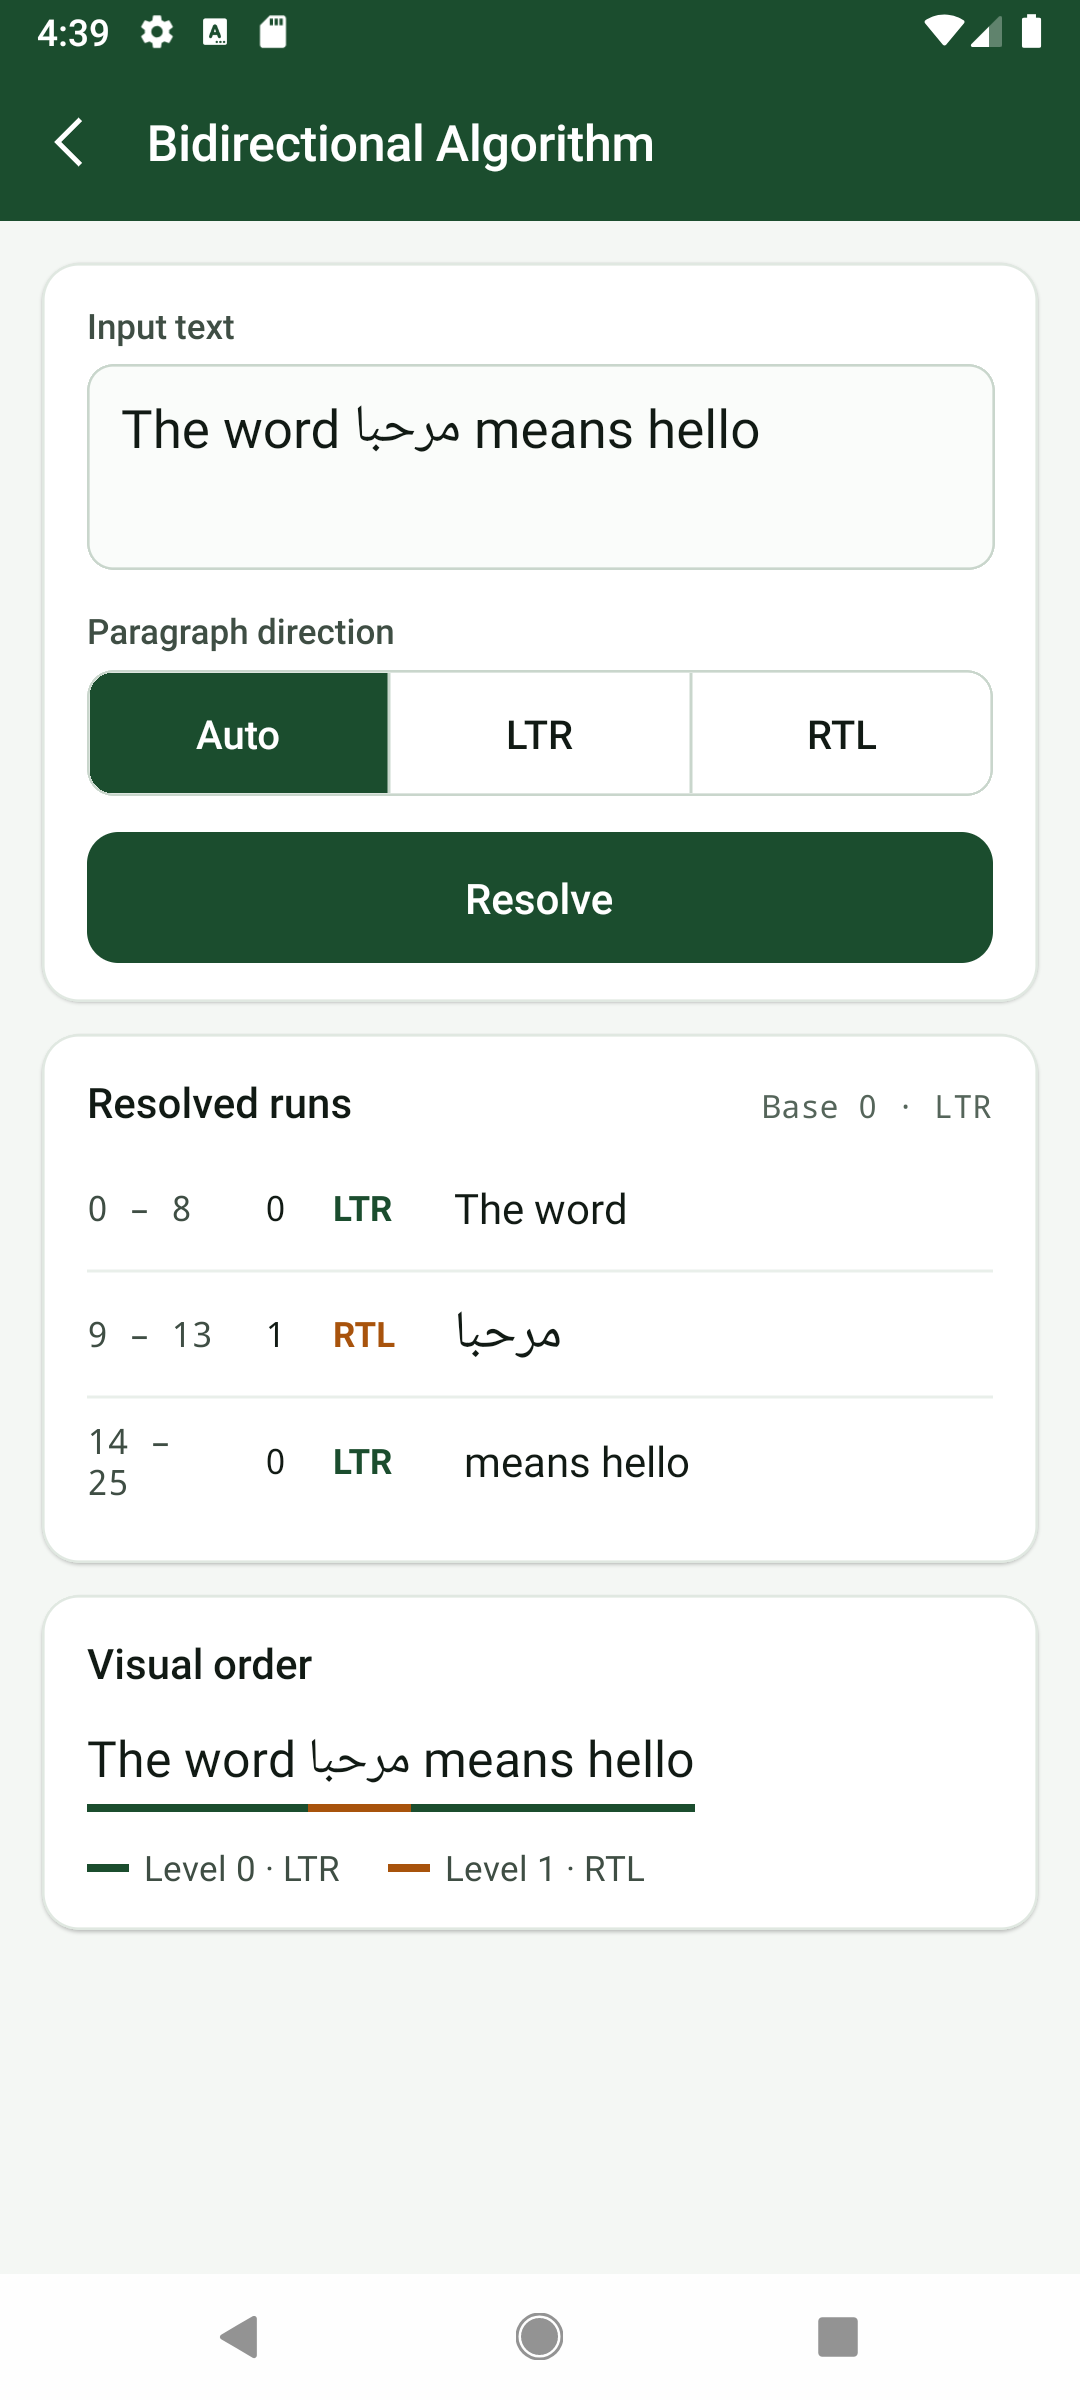
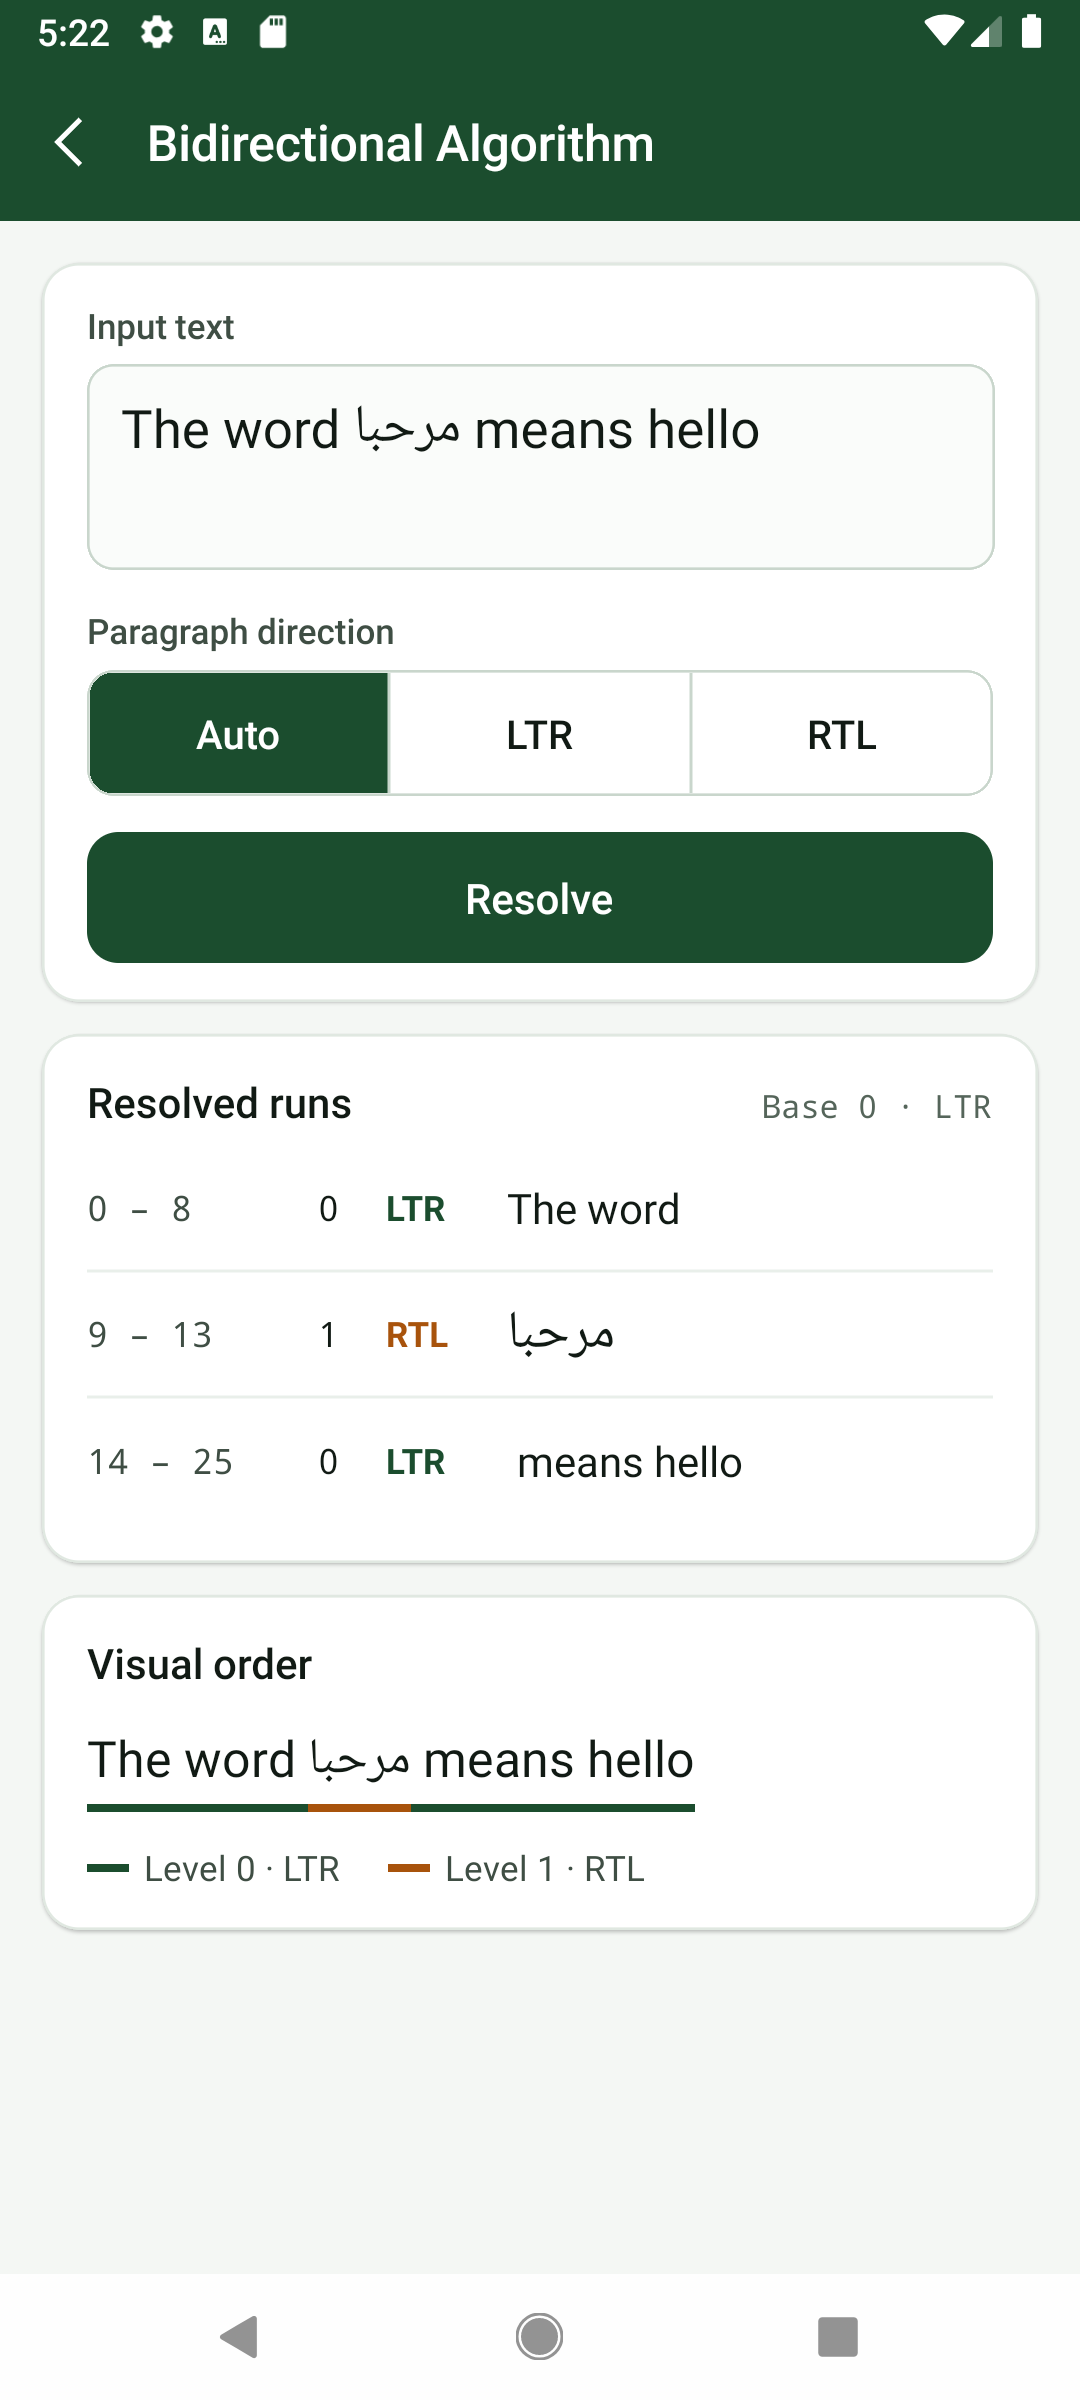
[test][docs] Fix the QA findings of #60: sheet inset, glyph grid loading state, Bidi range column, input spell-check, glyph ID validation, README emulator (#30)

diff --git a/demo/src/screens/GlyphsScreen.tsx b/demo/src/screens/GlyphsScreen.tsx
@@ -125,7 +125,15 @@ export function GlyphsScreen({ onBack }: { onBack: () => void }) {
   const [characters, setCharacters] = useState<Map<number, number>>();
   const [goTo, setGoTo] = useState('0000');
   const [gridWidth, setGridWidth] = useState(0);
+  const [problem, setProblem] = useState<string | undefined>();
+  // Drawing the cells blocks the JS thread for seconds on slow devices. The grid is mounted a tick
+  // after the spinner, and a jump scrolls a tick after it, so the spinner is on the screen first.
+  const [gridMounted, setGridMounted] = useState(false);
+  const [drawing, setDrawing] = useState(true);
   const list = useRef<FlatList<number>>(null);
+  const visible = useRef<readonly number[]>([]);
+  const awaited = useRef<number | undefined>(undefined);
+  const timers = useRef<ReturnType<typeof setTimeout>[]>([]);
 
   const owned = useOwned(() => (typeface === undefined ? undefined : new GlyphRenderer(typeface)), [typeface]);
   const renderer = owned !== undefined && owned.typeface === typeface ? owned.renderer : undefined;
@@ -134,6 +142,11 @@ export function GlyphsScreen({ onBack }: { onBack: () => void }) {
     setSelected(undefined);
     setCharacters(undefined);
     setGoTo('0000');
+    setProblem(undefined);
+    setGridMounted(false);
+    setDrawing(true);
+    visible.current = [];
+    awaited.current = undefined;
     if (typeface === undefined) {
       return;
     }
@@ -141,19 +154,61 @@ export function GlyphsScreen({ onBack }: { onBack: () => void }) {
     return mapCharacters(typeface, setCharacters);
   }, [typeface]);
 
+  const rendererReady = renderer !== undefined;
+  useEffect(() => {
+    if (!rendererReady) {
+      return;
+    }
+    const timer = setTimeout(() => setGridMounted(true), 50);
+    return () => clearTimeout(timer);
+  }, [rendererReady]);
+
+  useEffect(() => () => timers.current.forEach(clearTimeout), []);
+
+  const viewabilityConfig = useRef({ itemVisiblePercentThreshold: 1 }).current;
+  const onViewableItemsChanged = useRef(({ viewableItems }: { viewableItems: { item: unknown }[] }) => {
+    visible.current = viewableItems.map((token) => token.item as number);
+    if (visible.current.length === 0) {
+      return;
+    }
+    if (awaited.current === undefined || visible.current.includes(awaited.current)) {
+      awaited.current = undefined;
+      setDrawing(false);
+    }
+  }).current;
+
   const glyphCount = typeface?.glyphCount ?? 0;
   const glyphIds = useMemo(() => Array.from({ length: glyphCount }, (_, index) => index), [glyphCount]);
   const cellWidth = Math.floor((gridWidth - GAP * (COLUMNS - 1)) / COLUMNS);
   const pick = useCallback((glyphId: number) => setSelected(glyphId), []);
 
   const jump = () => {
-    const id = Number.parseInt(goTo, 16);
-    if (Number.isNaN(id) || glyphCount === 0) {
+    const trimmed = goTo.trim();
+    if (!/^[0-9a-f]{1,8}$/i.test(trimmed)) {
+      setProblem('Write a valid glyph ID!');
       return;
     }
-    const target = Math.min(Math.max(id, 0), glyphCount - 1);
+    if (glyphCount === 0) {
+      return;
+    }
+    const id = Number.parseInt(trimmed, 16);
+    const target = Math.min(id, glyphCount - 1);
+    setProblem(id > target ? `Write a glyph ID up to ${hex(target)}!` : undefined);
     setGoTo(hex(target));
-    list.current?.scrollToOffset({ offset: Math.floor(target / COLUMNS) * ROW_HEIGHT, animated: false });
+    if (!visible.current.includes(target)) {
+      awaited.current = target;
+      setDrawing(true);
+      timers.current.push(setTimeout(() => {
+        list.current?.scrollToOffset({ offset: Math.floor(target / COLUMNS) * ROW_HEIGHT, animated: false });
+      }, 50));
+      // A target that never becomes viewable must not leave the spinner on for good.
+      timers.current.push(setTimeout(() => {
+        if (awaited.current === target) {
+          awaited.current = undefined;
+          setDrawing(false);
+        }
+      }, 15000));
+    }
   };
 
   const isLoading = typeface === undefined && error === undefined;
@@ -167,9 +222,13 @@ export function GlyphsScreen({ onBack }: { onBack: () => void }) {
             <TextInput
               autoCapitalize="characters"
               autoCorrect={false}
-              onChangeText={setGoTo}
+              onChangeText={(text) => {
+                setGoTo(text);
+                setProblem(undefined);
+              }}
               onSubmitEditing={jump}
               returnKeyType="go"
+              spellCheck={false}
               style={[inputStyle, { fontFamily: mono }]}
               testID="glyphGoTo"
               value={goTo}
@@ -177,6 +236,7 @@ export function GlyphsScreen({ onBack }: { onBack: () => void }) {
           </Field>
           <Button label="Go" onPress={jump} style={styles.go} testID="glyphGo" />
         </View>
+        {problem !== undefined && <Message tone="error">{problem}</Message>}
       </Card>
 
       <Card style={styles.all}>
@@ -199,7 +259,7 @@ export function GlyphsScreen({ onBack }: { onBack: () => void }) {
               </View>
             </View>
           )}
-          {typeface !== undefined && renderer !== undefined && cellWidth > 0 && (
+          {typeface !== undefined && renderer !== undefined && gridMounted && cellWidth > 0 && (
             <FlatList
               columnWrapperStyle={styles.columns}
               data={glyphIds}
@@ -208,10 +268,18 @@ export function GlyphsScreen({ onBack }: { onBack: () => void }) {
               keyExtractor={(glyphId) => String(glyphId)}
               maxToRenderPerBatch={16}
               numColumns={COLUMNS}
+              onViewableItemsChanged={onViewableItemsChanged}
               ref={list}
               renderItem={({ item }) => <GlyphCell glyphId={item} onPick={pick} renderer={renderer} width={cellWidth} />}
+              viewabilityConfig={viewabilityConfig}
               windowSize={7}
             />
+          )}
+          {typeface !== undefined && drawing && (
+            <View accessibilityRole="progressbar" pointerEvents="auto" style={styles.drawing}>
+              <ActivityIndicator color={colors.primary} size="large" />
+              <Text style={styles.loadingText}>Drawing the glyphs…</Text>
+            </View>
           )}
         </View>
       </Card>
@@ -244,6 +312,7 @@ const styles = StyleSheet.create({
   cellId: { fontSize: 11, color: colors.muted },
   loading: { alignItems: 'center', gap: 12, paddingTop: 8, paddingBottom: 16 },
   loadingText: { fontSize: 15, color: colors.label },
+  drawing: { ...StyleSheet.absoluteFill, alignItems: 'center', justifyContent: 'flex-start', gap: 12, paddingTop: 24, backgroundColor: colors.card },
   skeletons: { flexDirection: 'row', flexWrap: 'wrap', gap: GAP },
   skeleton: { height: CELL_HEIGHT, borderRadius: 10, borderWidth: 1, borderColor: colors.border, backgroundColor: colors.skeleton },
 });

diff --git a/demo/src/components/Select.tsx b/demo/src/components/Select.tsx
@@ -1,10 +1,17 @@
 import { useEffect, useRef, useState } from 'react';
-import { Animated, Modal, Pressable, ScrollView, StyleSheet, Text, useWindowDimensions, View } from 'react-native';
+import { Animated, Modal, Platform, Pressable, ScrollView, StyleSheet, Text, useWindowDimensions, View } from 'react-native';
 import type { LayoutChangeEvent } from 'react-native';
 import { colors } from '../theme/colors';
 import { slide } from '../theme/slide';
 import { Chevron } from './Chevron';
 import { Field } from './Field';
+
+const SHEET_PADDING = 24;
+// The window of a Modal draws under the Android navigation bar, and core React Native cannot measure
+// it (the screen and window heights are the same). 48 dp is the height of the 3-button bar, the
+// tallest one; gesture navigation only leaves a little more space. On iOS the sheet needs no inset
+// beyond SHEET_PADDING, which already clears the home indicator.
+const BOTTOM_INSET = Platform.OS === 'android' ? 48 : 0;
 
 /**
  * A dropdown: a field that opens a bottom sheet with the choices. It is built of core components
@@ -69,7 +76,7 @@ export function Select<T extends string | number>({ label, options, value, onCha
           </Animated.View>
           <Animated.View
             onLayout={(event: LayoutChangeEvent) => setSheetHeight(event.nativeEvent.layout.height)}
-            style={[styles.sheet, { transform: [{ translateY: progress.interpolate({ inputRange: [0, 1], outputRange: [sheetHeight, 0] }) }] }]}
+            style={[styles.sheet, { paddingBottom: SHEET_PADDING + BOTTOM_INSET, transform: [{ translateY: progress.interpolate({ inputRange: [0, 1], outputRange: [sheetHeight, 0] }) }] }]}
           >
             <View style={styles.sheetHandle} />
             <Text style={styles.sheetTitle}>{label}</Text>
@@ -109,7 +116,7 @@ const styles = StyleSheet.create({
   selectChevron: { position: 'absolute', right: 16, top: 14, width: 16, height: 16, alignItems: 'center', justifyContent: 'center', paddingBottom: 3 },
   sheetHost: { flex: 1, justifyContent: 'flex-end' },
   backdrop: { ...StyleSheet.absoluteFill, backgroundColor: 'rgba(17,26,20,0.45)' },
-  sheet: { backgroundColor: colors.card, borderTopLeftRadius: 18, borderTopRightRadius: 18, maxHeight: '65%', paddingTop: 8, paddingBottom: 24 },
+  sheet: { backgroundColor: colors.card, borderTopLeftRadius: 18, borderTopRightRadius: 18, maxHeight: '65%', paddingTop: 8 },
   sheetHandle: { alignSelf: 'center', width: 36, height: 4, borderRadius: 2, backgroundColor: colors.inputBorder, marginBottom: 12 },
   sheetTitle: { fontSize: 13, fontWeight: '600', color: colors.label, paddingHorizontal: 20, paddingBottom: 8 },
   option: { minHeight: 52, flexDirection: 'row', alignItems: 'center', justifyContent: 'space-between', gap: 12, paddingHorizontal: 20 },

diff --git a/demo/src/screens/ShapingScreen.tsx b/demo/src/screens/ShapingScreen.tsx
@@ -206,7 +206,7 @@ export function ShapingScreen({ onBack }: { onBack: () => void }) {
     <Page title="OpenType Shaping" onBack={onBack}>
       <Card>
         <Field label="Input text">
-          <TextInput multiline onChangeText={setText} style={[styles.input, styles.urdu]} testID="shapingText" value={text} />
+          <TextInput autoCapitalize="none" autoCorrect={false} multiline onChangeText={setText} spellCheck={false} style={[styles.input, styles.urdu]} testID="shapingText" value={text} />
         </Field>
         <FontChoice disabled={typeface === undefined} onChange={setFontId} options={TEXT_FONTS} value={fontId} />
         <View style={styles.tags}>
@@ -214,10 +214,10 @@ export function ShapingScreen({ onBack }: { onBack: () => void }) {
             <TextInput inputMode="numeric" onChangeText={setSize} style={styles.tag} testID="shapingSize" value={size} />
           </Field>
           <Field label="Script" style={{ flex: 1 }}>
-            <TextInput autoCapitalize="none" autoCorrect={false} onChangeText={setScript} style={styles.tag} testID="shapingScript" value={script} />
+            <TextInput autoCapitalize="none" autoCorrect={false} onChangeText={setScript} spellCheck={false} style={styles.tag} testID="shapingScript" value={script} />
           </Field>
           <Field label="Language" style={{ flex: 1 }}>
-            <TextInput autoCapitalize="none" autoCorrect={false} onChangeText={setLanguage} style={styles.tag} testID="shapingLanguage" value={language} />
+            <TextInput autoCapitalize="none" autoCorrect={false} onChangeText={setLanguage} spellCheck={false} style={styles.tag} testID="shapingLanguage" value={language} />
           </Field>
         </View>
         {problem !== undefined && <Message tone="error">{problem}</Message>}

diff --git a/demo/src/screens/BidiScreen.tsx b/demo/src/screens/BidiScreen.tsx
@@ -103,8 +103,11 @@ export function BidiScreen({ onBack }: { onBack: () => void }) {
       <Card>
         <Field label="Input text">
           <TextInput
+            autoCapitalize="none"
+            autoCorrect={false}
             multiline
             onChangeText={setText}
+            spellCheck={false}
             style={styles.input}
             testID="bidiInput"
             value={text}
@@ -131,7 +134,7 @@ export function BidiScreen({ onBack }: { onBack: () => void }) {
             <View style={styles.runs}>
               {paragraph.logical.map((run, runIndex) => (
                 <View key={run.start} style={[styles.runRow, runIndex < paragraph.logical.length - 1 && styles.runRule]}>
-                  <Mono style={styles.cRange}>{`${run.start} – ${run.end - 1}`}</Mono>
+                  <Mono numberOfLines={1} style={styles.cRange}>{`${run.start} – ${run.end - 1}`}</Mono>
                   <Mono style={styles.cLevel}>{run.level}</Mono>
                   <Text style={[styles.cDir, { color: isRtl(run.level) ? colors.rtl : colors.ltr }]}>{isRtl(run.level) ? 'RTL' : 'LTR'}</Text>
                   <Text style={[styles.cText, isRtl(run.level) && styles.cTextRtl, { writingDirection: isRtl(run.level) ? 'rtl' : 'ltr' }]}>{printable(run.text)}</Text>
@@ -173,7 +176,7 @@ const styles = StyleSheet.create({
   runs: { marginTop: -6 },
   runRow: { flexDirection: 'row', alignItems: 'center', gap: 12, minHeight: 48, paddingVertical: 6 },
   runRule: { borderBottomWidth: 1, borderBottomColor: colors.divider },
-  cRange: { width: 56, color: colors.label },
+  cRange: { width: 76, color: colors.label },
   cLevel: { width: 14 },
   cDir: { width: 34, fontSize: 13, fontWeight: '700' },
   cText: { flex: 1, fontSize: 16, color: colors.text, textAlign: 'left' },

diff --git a/demo/src/components/Mono.tsx b/demo/src/components/Mono.tsx
@@ -4,8 +4,8 @@ import type { StyleProp, TextStyle } from 'react-native';
 import { colors } from '../theme/colors';
 import { mono } from '../theme/mono';
 
-export function Mono({ children, style }: { children: ReactNode; style?: StyleProp<TextStyle> }) {
-  return <Text style={[styles.mono, style]}>{children}</Text>;
+export function Mono({ children, style, numberOfLines }: { children: ReactNode; style?: StyleProp<TextStyle>; numberOfLines?: number }) {
+  return <Text numberOfLines={numberOfLines} style={[styles.mono, style]}>{children}</Text>;
 }
 
 const styles = StyleSheet.create({

diff --git a/README.md b/README.md
@@ -107,7 +107,7 @@ iPhone 16 Pro simulator:
 | ![Variable Fonts](docs/screenshots/ios-variable-fonts.png) | ![Custom Label](docs/screenshots/ios-custom-label.png) |
 | ![Custom Text View](docs/screenshots/ios-text-view.png) | |
 
-Android emulator (Pixel-sized, API 30):
+Android emulator (Pixel-sized, API 28, arm64):
 
 | | | |
 |---|---|---|
